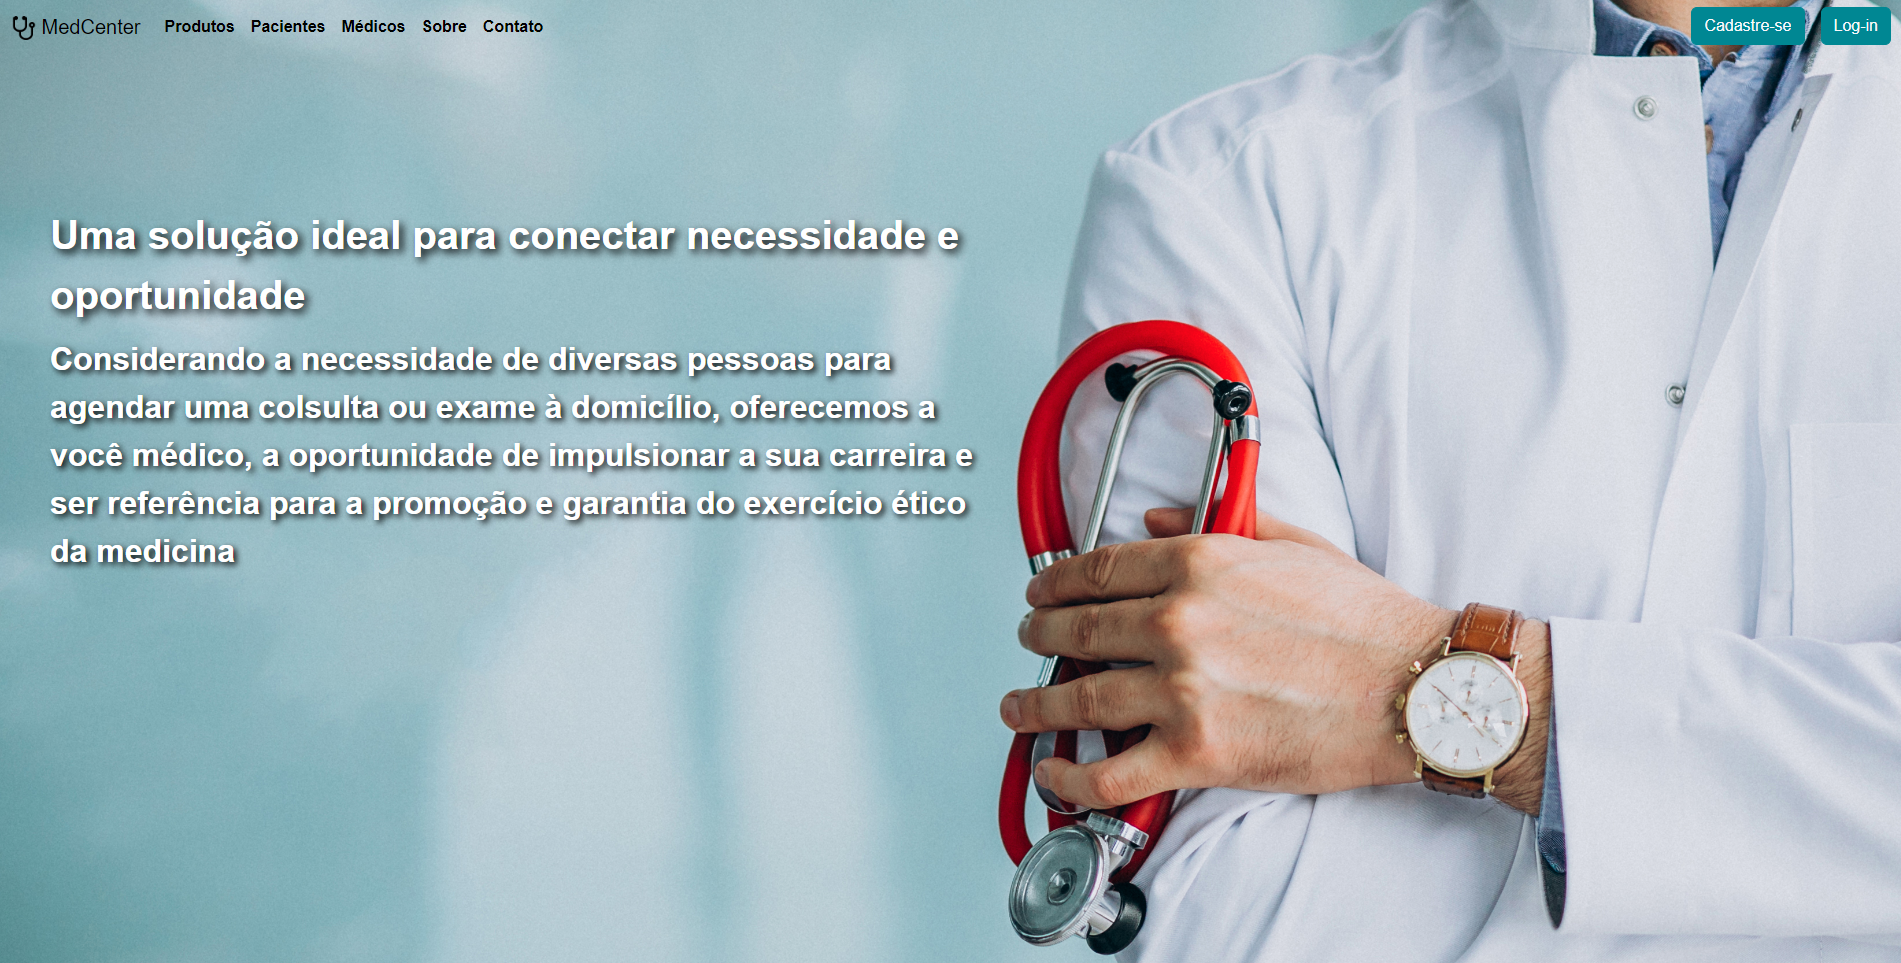
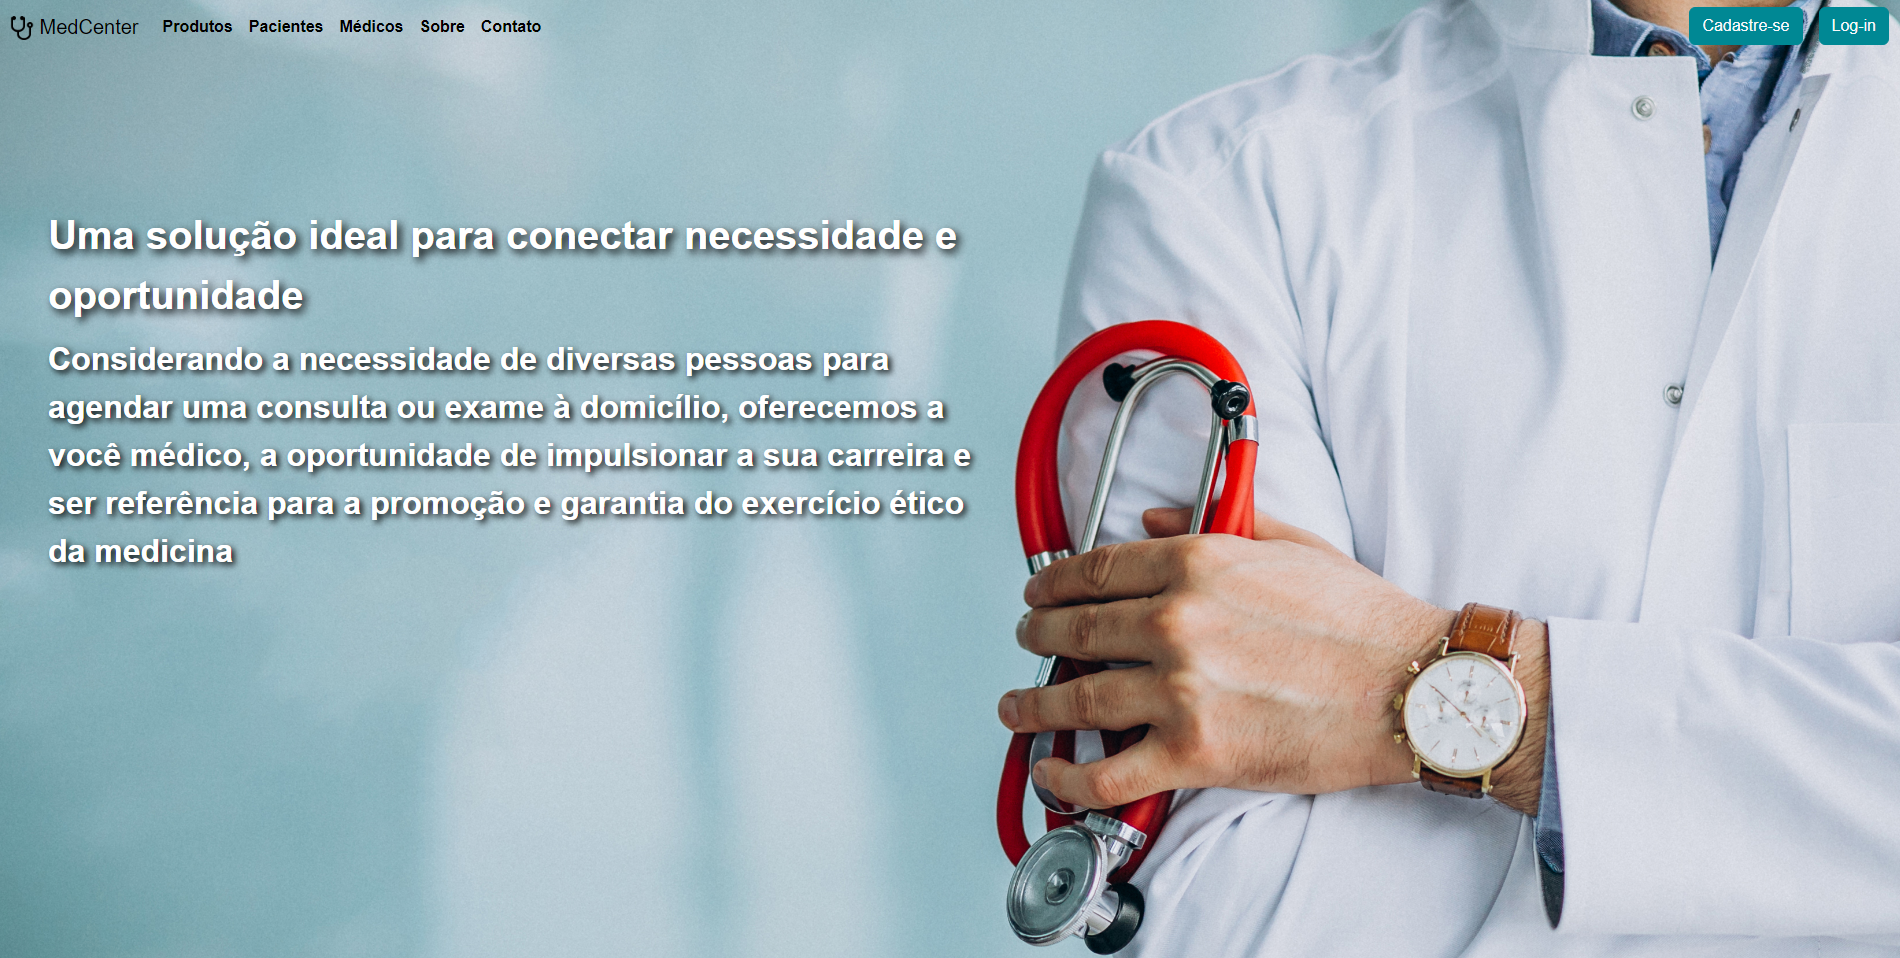
hotfix typo

diff --git a/src/views/HomeView.vue b/src/views/HomeView.vue
@@ -64,7 +64,7 @@
       <div class="home">
         <h1>Uma solução ideal para conectar necessidade e oportunidade</h1>
         <h2>
-          <span class="span-text">Considerando a necessidade de diversas pessoas para agendar uma colsulta ou exame à
+          <span class="span-text">Considerando a necessidade de diversas pessoas para agendar uma consulta ou exame à
             domicílio, oferecemos a você médico, a oportunidade de impulsionar a sua carreira e ser referência para a
             promoção e garantia do exercício ético da medicina</span>
         </h2>
